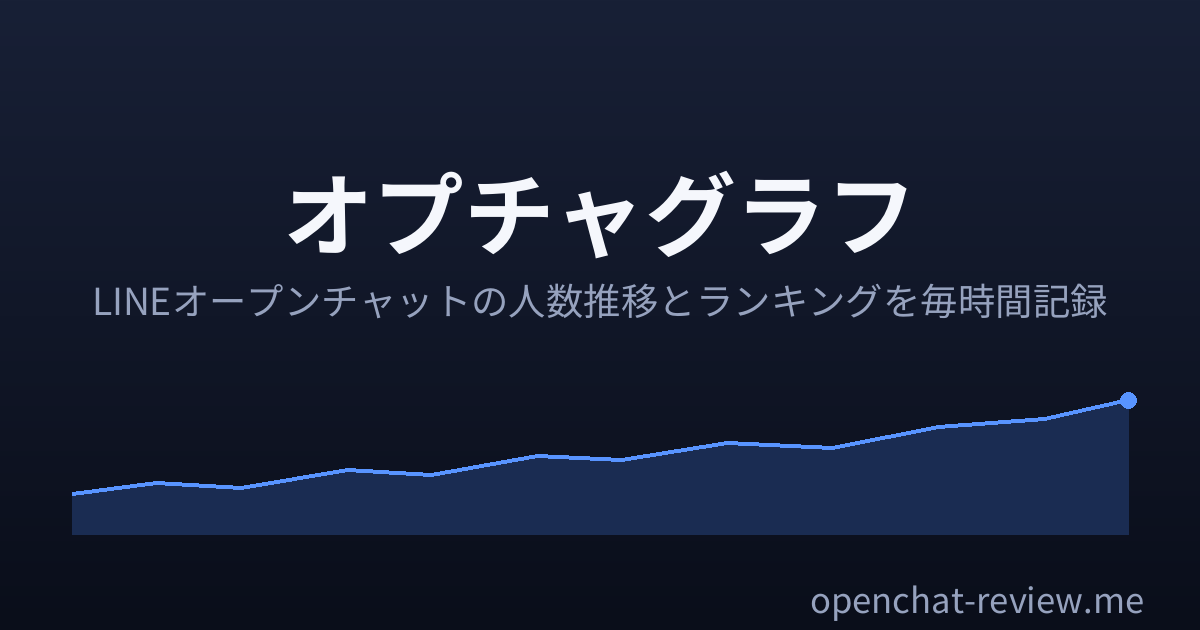
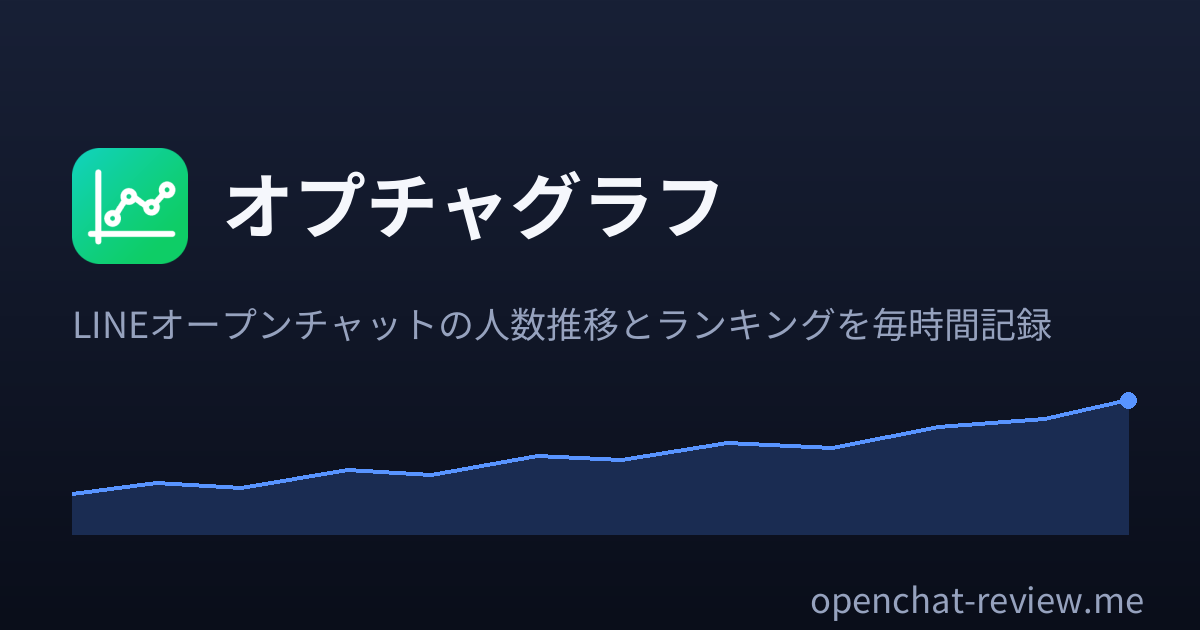
fix: シェア画像で縦長画像の円・サムネが楕円に潰れる問題を修正・デフォルトOGPを実サイトのロゴ入りに
- LINE の画像は正方形とは限らない（縦長のカバー画像など）のに正方形へ引き伸ばして
  いたため、円形アイコンや1:1サムネの中身が楕円に潰れていた。中央の最大正方形を
  切り出すカバークロップに変更（/oc カードの円形アイコン・1:1サムネ全面・
  /recommend ミニカードの角丸アイコムの3箇所とも）
- デフォルトOGPをテンプレ的な中央揃えから、実際のサイトヘッダーと同じロックアップ
  （緑のロゴアイコン＋サイト名の横並び・左揃え）に変更し、3言語分の画像を再生成

🤖 Generated with Claude Code
Committed from: vm:/home/user/Open-Chat-Graph

Changed region(s): [[0.0617, 0.4524, 0.925, 0.5429], [0.185, 0.2714, 0.7708, 0.4222], [0.0617, 0.2111, 0.1542, 0.4222]]

diff --git a/app/Services/OgImage/SiteOgpImageGenerator.php b/app/Services/OgImage/SiteOgpImageGenerator.php
@@ -12,11 +12,15 @@ namespace App\Services\OgImage;
  * （再生成: `php batch/exec/generate_default_ogp.php`）。文言は t() がロケール（ja/tw/th）で解決する
  * ため、実行時の MimimalCmsConfig::$urlRoot ごとに1枚ずつ書き出す。
  *
- * 構図: /oc カードと同じ濃紺グラデーション地。下部にブランドモチーフの上昇折れ線（装飾・実データ
- * ではない）、中央にサイト名とタグライン、右下にドメイン。
+ * 構図: /oc カードと同じ濃紺グラデーション地。実際のサイトヘッダーと同じロックアップ
+ * （緑のロゴアイコン＋サイト名の横並び・左揃え）を上部に置き、その下にタグライン、
+ * 下部にブランドモチーフの上昇折れ線（装飾・実データではない）、右下にドメイン。
  */
 class SiteOgpImageGenerator extends AbstractCardImageGenerator
 {
+    /** サイトヘッダーで使っている実物のロゴアイコン（緑のグラフ）。リポ同梱＝環境差なし */
+    private const SITE_ICON_FILE = __DIR__ . '/../../../public/assets/icon-192x192.png';
+
     /**
      * 装飾折れ線の正規化座標（x: 0..1, y: 0..1=下端）。緩やかな上下を挟みつつ右肩上がり。
      * 乱数を使わず固定にして、再生成しても同じ画像になる（差分コミットを汚さない）。
@@ -42,24 +46,32 @@ class SiteOgpImageGenerator extends AbstractCardImageGenerator
         // --- 下部: ブランドモチーフの上昇折れ線（装飾） ---
         $this->drawDecorativeChart($im, $accent);
 
-        // --- 中央: サイト名（1行・入る最大サイズへ縮小）＋タグライン ---
+        // --- 上部: サイトヘッダーと同じロックアップ（緑ロゴ＋サイト名の横並び・左揃え） ---
+        $left = 72;
+        $iconSize = 116;
+        $iconTop = 148;
+        $iconDrawn = $this->drawSiteIcon($im, $left, $iconTop, $iconSize);
+
         $title = t('オプチャグラフ');
-        $maxW = self::WIDTH - 2 * 72;
-        $size = 68;
-        while ($size > 36 && $this->measureLine($title, $size, $this->fontsBold) > $maxW) {
+        $textX = $iconDrawn ? $left + $iconSize + 34 : $left;
+        $maxW = self::WIDTH - $textX - 72;
+        $size = 54;
+        while ($size > 30 && $this->measureLine($title, $size, $this->fontsBold) > $maxW) {
             $size -= 2;
         }
-        $tw = $this->measureLine($title, $size, $this->fontsBold);
-        $titleTop = 176;
-        $this->drawLine($im, $title, intdiv(self::WIDTH - $tw, 2), $titleTop, $size, $white, $this->fontsBold);
+        // タイトルの ink をロゴの縦中央に合わせる（GDのサイズはポイント指定＝実インクを実測して置く）
+        $bbox = imagettfbbox($size, 0, $this->fontBold, 'あ0A');
+        $inkH = -$bbox[7] + $bbox[1];
+        $titleTop = $iconTop + intdiv($iconSize - $inkH, 2);
+        $this->drawLine($im, $title, $textX, $titleTop, $size, $white, $this->fontsBold);
 
+        // --- タグライン: ロックアップの下・左揃え ---
         $tagline = t('LINEオープンチャットの人数推移とランキングを毎時間記録');
-        $tsize = 28;
-        while ($tsize > 20 && $this->measureLine($tagline, $tsize, $this->fontsMedium) > $maxW) {
+        $tsize = 27;
+        while ($tsize > 18 && $this->measureLine($tagline, $tsize, $this->fontsMedium) > self::WIDTH - $left - 72) {
             $tsize -= 2;
         }
-        $tlw = $this->measureLine($tagline, $tsize, $this->fontsMedium);
-        $this->drawLine($im, $tagline, intdiv(self::WIDTH - $tlw, 2), $titleTop + (int)round($size * 1.62), $tsize, $sub, $this->fontsMedium);
+        $this->drawLine($im, $tagline, $left, $iconTop + $iconSize + 46, $tsize, $sub, $this->fontsMedium);
 
         // --- フッター右下: ドメイン（oc カードと同位置） ---
         $brand = 'openchat-review.me';
@@ -69,6 +81,28 @@ class SiteOgpImageGenerator extends AbstractCardImageGenerator
         ob_start();
         imagepng($im, null, 6);
         return ob_get_clean() ?: null;
+    }
+
+    /**
+     * サイトロゴ（PNG・角丸と透過はアセット側で済んでいる）をアルファ合成で描く。
+     * アセットが読めない環境では何も描かず false（タイトルを左端へ寄せる）。
+     */
+    private function drawSiteIcon(\GdImage $im, int $x, int $y, int $size): bool
+    {
+        if (!is_file(self::SITE_ICON_FILE)) {
+            return false;
+        }
+        try {
+            $icon = imagecreatefrompng(self::SITE_ICON_FILE);
+        } catch (\ErrorException $e) {
+            return false; // 壊れたアセット（想定外だが画像全体は止めない）
+        }
+        if ($icon === false) {
+            return false;
+        }
+        imagealphablending($im, true);
+        imagecopyresampled($im, $icon, $x, $y, 0, 0, $size, $size, imagesx($icon), imagesy($icon));
+        return true;
     }
 
     /**

diff --git a/app/Services/OgImage/AbstractCardImageGenerator.php b/app/Services/OgImage/AbstractCardImageGenerator.php
@@ -614,9 +614,9 @@ abstract class AbstractCardImageGenerator
             return;
         }
 
-        // 正方形へリサイズ
-        $sq = imagecreatetruecolor($size, $size);
-        imagecopyresampled($sq, $src, 0, 0, 0, 0, $size, $size, imagesx($src), imagesy($src));
+        // 正方形へカバークロップ（中央の最大正方形を切り出す。縦長のカバー画像を引き伸ばすと
+        // 円の中身が楕円に潰れるため、リサイズではなくクロップで合わせる）
+        $sq = $this->cropSquare($src, $size);
 
         // 円形マスク: 円の外側を魔法色で塗り、内側だけ転写する（簡易アンチエイリアス無し）
         $mask = imagecreatetruecolor($size, $size);
@@ -631,6 +631,20 @@ abstract class AbstractCardImageGenerator
                 imagesetpixel($im, $x + $ix, $y + $iy, imagecolorat($sq, $ix, $iy));
             }
         }
+    }
+
+    /**
+     * 画像の中央の最大正方形を $size 四方に切り出して返す（カバークロップ）。
+     * LINE の画像は正方形とは限らない（縦長のカバー画像など）ため、正方形リサイズだと絵が潰れる。
+     */
+    protected function cropSquare(\GdImage $src, int $size): \GdImage
+    {
+        $sw = imagesx($src);
+        $sh = imagesy($src);
+        $side = min($sw, $sh);
+        $sq = imagecreatetruecolor($size, $size);
+        imagecopyresampled($sq, $src, 0, 0, intdiv($sw - $side, 2), intdiv($sh - $side, 2), $size, $size, $side, $side);
+        return $sq;
     }
 
     /**

diff --git a/app/Services/OgImage/OcCardImageGenerator.php b/app/Services/OgImage/OcCardImageGenerator.php
@@ -107,7 +107,8 @@ class OcCardImageGenerator extends AbstractCardImageGenerator
 
         $icon = $iconUrl ? $this->loadIcon($iconUrl) : null;
         if ($icon) {
-            imagecopyresampled($im, $icon, 0, 0, 0, 0, $s, $s, imagesx($icon), imagesy($icon));
+            // 全面に敷く（縦長のカバー画像を引き伸ばすと絵が潰れるためカバークロップ）
+            imagecopy($im, $this->cropSquare($icon, $s), 0, 0, 0, 0, $s, $s);
         }
 
         // 下部スクリム: 透明→濃紺のグラデーションを重ね、アイコンの柄に関わらず部屋名を読めるようにする

diff --git a/app/Services/OgImage/RecommendCardImageGenerator.php b/app/Services/OgImage/RecommendCardImageGenerator.php
@@ -309,8 +309,8 @@ class RecommendCardImageGenerator extends AbstractCardImageGenerator
             return;
         }
 
-        $sq = imagecreatetruecolor($size, $size);
-        imagecopyresampled($sq, $src, 0, 0, 0, 0, $size, $size, imagesx($src), imagesy($src));
+        // 正方形へカバークロップ（縦長のカバー画像を引き伸ばして潰さない）
+        $sq = $this->cropSquare($src, $size);
 
         $mask = imagecreatetruecolor($size, $size);
         imagefill($mask, 0, 0, imagecolorallocate($mask, 1, 2, 3));
